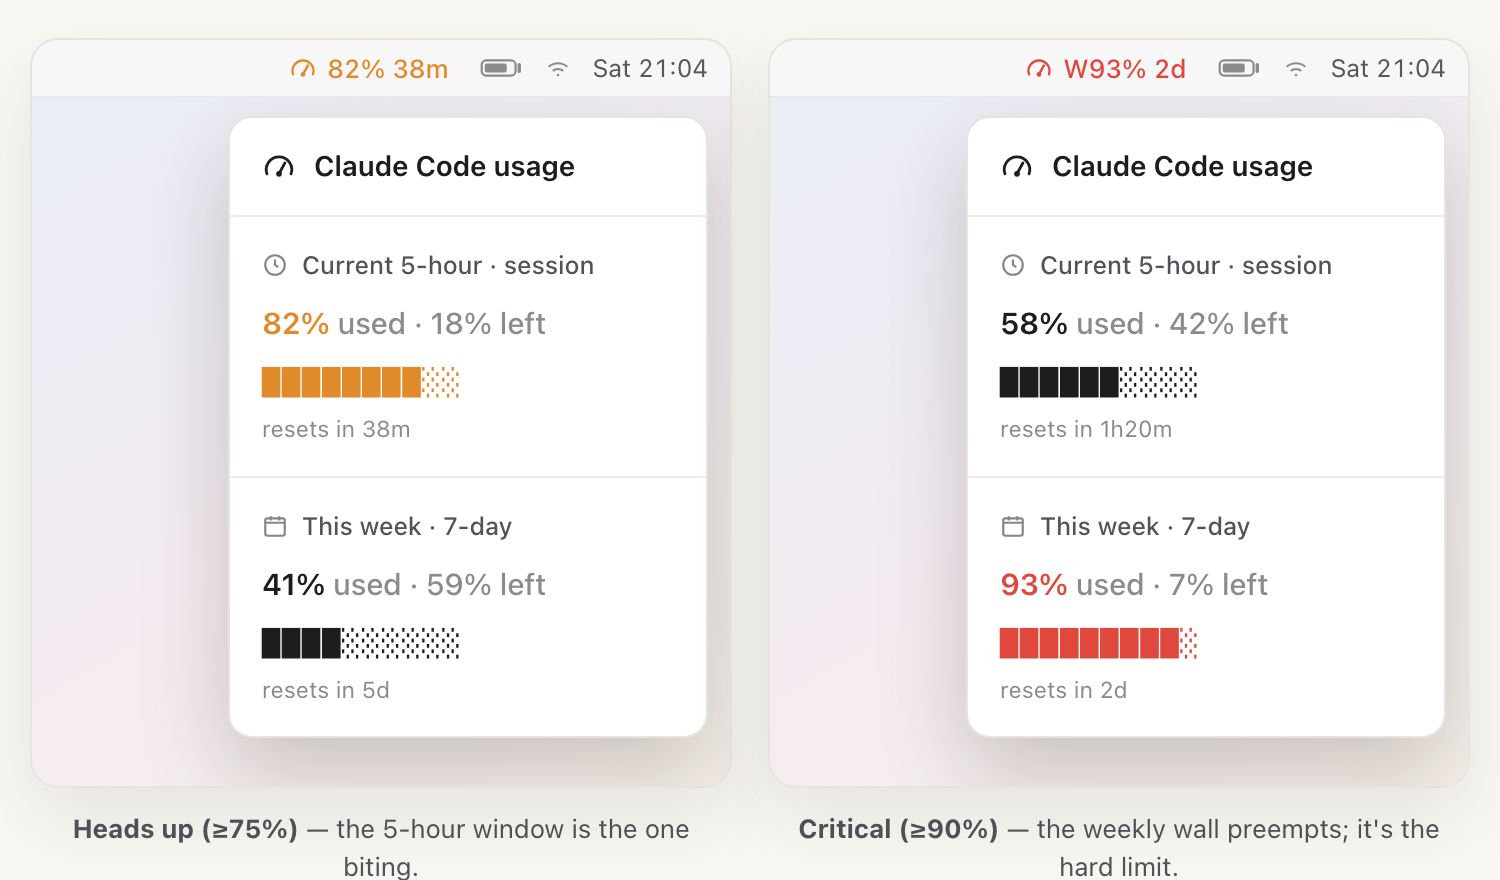
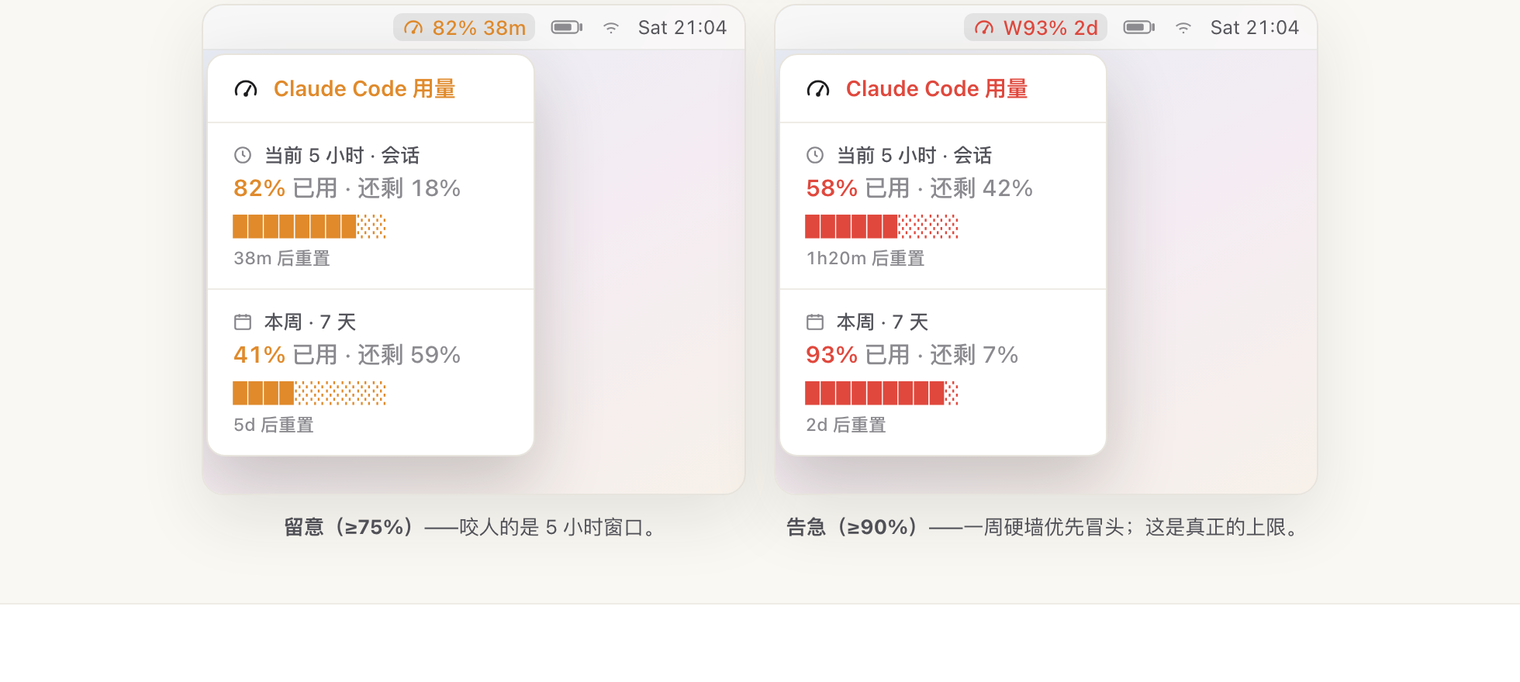
site: mock the selected menu-bar state + gauge-anchored dropdown in the amber/red scenes
The warning/critical state cards now mirror the hero exactly: the gauge
carries the selected (lit) highlight and the dropdown hangs directly under
it (right-aligned), instead of floating at the stage's top-right. Regenerate
docs/screenshots/states.png from the corrected scenes.

(index.html also carries in-progress hero-copy edits from a concurrent session.)

diff --git a/site/index.html b/site/index.html
@@ -82,12 +82,10 @@
 
   /* ---------- hero ---------- */
   .hero{padding:88px 0 40px;text-align:center}
-  .badge{
-    display:inline-flex;align-items:center;gap:8px;font-size:13px;color:var(--ink-soft);
-    background:var(--card);border:1px solid var(--line);border-radius:999px;
-    padding:6px 14px;margin-bottom:26px;font-weight:500;
-  }
-  .badge .dot{width:7px;height:7px;border-radius:50%;background:var(--ok);box-shadow:0 0 0 4px rgba(58,143,99,.12)}
+  .hero-checks{display:flex;flex-wrap:wrap;gap:9px 18px;justify-content:center;align-items:center;margin:0 auto 18px;max-width:640px}
+  .hero-checks span{display:inline-flex;align-items:center;gap:6px;font-size:15px;font-weight:550;color:var(--ink-soft)}
+  .hero-checks svg{width:17px;height:17px;flex:none}
+  .hero-kicker{font-size:14.5px;color:var(--ink-faint);margin:0 auto 30px}
   h1{
     font-size:clamp(38px,6.4vw,68px);line-height:1.02;letter-spacing:-.035em;
     font-weight:700;margin:0 0 20px;
@@ -97,7 +95,7 @@
     -webkit-background-clip:text;background-clip:text;color:transparent;
   }
   .sub{
-    font-size:clamp(17px,2.2vw,21px);color:var(--ink-soft);max-width:660px;margin:0 auto 34px;
+    font-size:clamp(17px,2.2vw,21px);color:var(--ink-soft);max-width:660px;margin:0 auto 16px;
     line-height:1.55;
   }
   .hero-cta{display:flex;gap:14px;justify-content:center;flex-wrap:wrap;margin-bottom:14px}
@@ -110,7 +108,6 @@
   .btn-primary:hover{transform:translateY(-2px);box-shadow:0 10px 30px rgba(0,0,0,.22)}
   .btn-ghost{background:var(--card);color:var(--ink);border-color:var(--line)}
   .btn-ghost:hover{transform:translateY(-2px);border-color:#d8d4cb}
-  .hero-note{font-size:13px;color:var(--ink-faint)}
 
   /* ---------- mock menu bar demo ---------- */
   .demo{position:relative;margin:56px auto 0;max-width:720px;border:1px solid var(--line);
@@ -181,10 +178,11 @@
   .mini-bar .sysicon{opacity:.55}
   .mini-bar .clock{opacity:.82;font-variant-numeric:tabular-nums}
   .mini-bar .mbg{padding:2px 6px}
-  .mini-stage{position:relative;height:344px}
-  @media(max-width:680px){.mini-stage{height:auto;padding-bottom:12px}}
-  .mini-stage .dropdown{position:absolute;top:9px;right:11px;width:240px;box-shadow:0 18px 44px rgba(40,36,28,.22)}
-  @media(max-width:680px){.mini-stage .dropdown{position:static;width:auto;margin:10px 11px 0;box-shadow:0 12px 30px rgba(40,36,28,.12)}}
+  .mini-stage{height:286px}
+  @media(max-width:680px){.mini-stage{height:264px}}
+  /* state-scene dropdown hangs from the (selected) gauge, exactly like the hero */
+  .mini-bar .popover .dropdown{width:212px;box-shadow:0 18px 44px rgba(40,36,28,.22)}
+  @media(max-width:680px){.mini-bar .popover{position:absolute}.mini-bar .popover .dropdown{width:min(212px,76vw)}}
   .dd-used.warn{color:var(--warn)}.dd-used.crit{color:var(--crit)}
   .scene-cap{margin:11px 2px 0;font-size:13px;color:var(--ink-soft);line-height:1.45;text-align:center}
   .leg .txt b{color:var(--ink);font-weight:600}
@@ -200,7 +198,7 @@
   @media(max-width:880px){.feat-grid{grid-template-columns:repeat(2,1fr)}}
   @media(max-width:560px){.feat-grid{grid-template-columns:1fr}}
   .feat{
-    background:var(--card);border:1px solid var(--line);border-radius:var(--radius);
+    background:var(--paper);border:1px solid var(--line);border-radius:var(--radius);
     padding:26px 24px;transition:transform .18s,box-shadow .18s,border-color .18s;
   }
   .feat:hover{transform:translateY(-3px);box-shadow:0 14px 36px rgba(40,36,28,.08);border-color:#ded9cf}
@@ -260,8 +258,9 @@
   .layer p code{font-family:var(--mono);font-size:12px;background:#f3f0e9;padding:1px 5px;border-radius:5px;color:var(--ink)}
   .opt-badge{font-size:10.5px;font-weight:700;letter-spacing:.04em;text-transform:uppercase;color:var(--ok);background:rgba(58,143,99,.1);padding:2px 7px;border-radius:5px;margin-left:6px}
 
+  /* ---------- white band (alternating section bg) ---------- */
+  .band{background:#fff;border-top:1px solid var(--line-soft);border-bottom:1px solid var(--line-soft)}
   /* ---------- privacy ---------- */
-  .privacy{background:#fff;border-top:1px solid var(--line-soft);border-bottom:1px solid var(--line-soft)}
   .priv-grid{display:grid;grid-template-columns:repeat(2,1fr);gap:16px;max-width:840px;margin:0 auto}
   @media(max-width:640px){.priv-grid{grid-template-columns:1fr}}
   .priv{display:flex;gap:14px;align-items:flex-start;padding:20px 22px;border:1px solid var(--line);border-radius:14px;background:var(--paper)}
@@ -304,6 +303,10 @@
     <path d="M12 17.5 16.2 9.8" fill="none" stroke="currentColor" stroke-width="2" stroke-linecap="round"/>
     <circle cx="12" cy="17.5" r="2" fill="currentColor"/>
   </symbol>
+  <symbol id="chk" viewBox="0 0 24 24">
+    <circle cx="12" cy="12" r="10" fill="#e7f1ec"/>
+    <path d="m7.8 12.3 2.7 2.7L16.2 9.2" fill="none" stroke="#3a8f63" stroke-width="2.2" stroke-linecap="round" stroke-linejoin="round"/>
+  </symbol>
 </svg>
 
 <nav>
@@ -324,12 +327,17 @@
 <!-- ============ HERO ============ -->
 <header class="hero">
   <div class="wrap">
-    <span class="badge"><span class="dot"></span> <span class="en">macOS menu bar · Claude Code Pro / Max</span><span class="zh">macOS 菜单栏 · Claude Code Pro / Max</span></span>
     <h1><span class="en">Your Claude Code usage,<br><span class="grad">live in the menu bar.</span></span><span class="zh">你的 Claude Code 用量，<br><span class="grad">常驻菜单栏。</span></span></h1>
     <p class="sub">
-      <span class="en">A tiny macOS gauge that shows how much of your Claude Code quota you've used —
-      reading only the official numbers, never a line of your conversations or code. Free, open source, zero quota cost.</span><span class="zh">一个小巧的 macOS 表盘，瞄一眼就知道 Claude Code 额度用了多少——只读官方用量数字，绝不读你的对话和代码一个字。免费、开源、零额度消耗。</span>
+      <span class="en">A tiny macOS gauge — one glance tells you how much of your Claude Code quota you've used.</span><span class="zh">一个小巧的 macOS 表盘，瞄一眼就知道 Claude Code 额度用了多少。</span>
     </p>
+    <div class="hero-checks">
+      <span><svg><use href="#chk"/></svg> <span class="en">Tiny</span><span class="zh">小巧</span></span>
+      <span><svg><use href="#chk"/></svg> <span class="en">Private</span><span class="zh">安全</span></span>
+      <span><svg><use href="#chk"/></svg> <span class="en">Zero quota cost</span><span class="zh">零额度消耗</span></span>
+      <span><svg><use href="#chk"/></svg> <span class="en">Free &amp; open source</span><span class="zh">免费开源</span></span>
+    </div>
+    <p class="hero-kicker"><span class="en">In short — it's just a very simple little tool.</span><span class="zh">总之，它只是一个非常简单的小工具。</span></p>
     <div class="hero-cta">
       <a class="btn btn-primary" href="#install">
         <svg width="16" height="16"><use href="#dial"/></svg> <span class="en">Get started</span><span class="zh">开始使用</span>
@@ -339,8 +347,6 @@
         <span class="en">View on GitHub</span><span class="zh">在 GitHub 上查看</span>
       </a>
     </div>
-    <p class="hero-note"><span class="en">MIT open source · most usage trackers read your chat logs to count usage — this one never touches them</span><span class="zh">MIT 开源 · 多数用量工具靠翻你的对话记录算用量——它一个字都不碰</span></p>
-
     <!-- mock window -->
     <div class="demo">
       <div class="macbar">
@@ -384,28 +390,30 @@
         <div>
           <div class="scene">
             <div class="mini-bar">
-              <span class="mbg warn"><svg class="dial"><use href="#dial"/></svg> 82% 38m</span>
+              <span class="mbg warn lit"><svg class="dial"><use href="#dial"/></svg> 82% 38m
+                <div class="popover">
+                  <div class="dropdown">
+                    <div class="dd-head"><svg class="dial"><use href="#dial"/></svg> <span class="en">Claude Code usage</span><span class="zh">Claude Code 用量</span></div>
+                    <div class="dd-row">
+                      <div class="dd-label"><svg viewBox="0 0 24 24" fill="none" stroke="currentColor" stroke-width="2"><circle cx="12" cy="12" r="9"/><path d="M12 7v5l3 2"/></svg> <span class="en">Current 5-hour · session</span><span class="zh">当前 5 小时 · 会话</span></div>
+                      <div class="dd-used warn">82%<span class="muted"><span class="en"> used&nbsp;·&nbsp;18% left</span><span class="zh"> 已用&nbsp;·&nbsp;还剩 18%</span></span></div>
+                      <div class="gaugebar warn">████████░░</div>
+                      <div class="dd-reset"><span class="en">resets in 38m</span><span class="zh">38m 后重置</span></div>
+                    </div>
+                    <div class="dd-row">
+                      <div class="dd-label"><svg viewBox="0 0 24 24" fill="none" stroke="currentColor" stroke-width="2"><rect x="3" y="5" width="18" height="16" rx="2"/><path d="M3 9h18M8 3v4M16 3v4"/></svg> <span class="en">This week · 7-day</span><span class="zh">本周 · 7 天</span></div>
+                      <div class="dd-used">41%<span class="muted"><span class="en"> used&nbsp;·&nbsp;59% left</span><span class="zh"> 已用&nbsp;·&nbsp;还剩 59%</span></span></div>
+                      <div class="gaugebar">████░░░░░░</div>
+                      <div class="dd-reset"><span class="en">resets in 5d</span><span class="zh">5d 后重置</span></div>
+                    </div>
+                  </div>
+                </div>
+              </span>
               <svg class="sysicon" width="22" height="13" viewBox="0 0 26 14" fill="none"><rect x="1" y="2.5" width="20" height="9" rx="2.6" stroke="currentColor" stroke-width="1.3"/><rect x="2.8" y="4.3" width="13" height="5.4" rx="1.2" fill="currentColor"/><path d="M23.2 5v4" stroke="currentColor" stroke-width="2" stroke-linecap="round"/></svg>
               <svg class="sysicon" width="14" height="14" viewBox="0 0 24 24" fill="none" stroke="currentColor" stroke-width="1.8"><path d="M4 11a12 12 0 0 1 16 0M7.5 14.5a7 7 0 0 1 9 0"/><circle cx="12" cy="18" r="1.1" fill="currentColor" stroke="none"/></svg>
               <span class="clock">Sat 21:04</span>
             </div>
-            <div class="mini-stage">
-              <div class="dropdown">
-                <div class="dd-head"><svg class="dial"><use href="#dial"/></svg> <span class="en">Claude Code usage</span><span class="zh">Claude Code 用量</span></div>
-                <div class="dd-row">
-                  <div class="dd-label"><svg viewBox="0 0 24 24" fill="none" stroke="currentColor" stroke-width="2"><circle cx="12" cy="12" r="9"/><path d="M12 7v5l3 2"/></svg> <span class="en">Current 5-hour · session</span><span class="zh">当前 5 小时 · 会话</span></div>
-                  <div class="dd-used warn">82%<span class="muted"><span class="en"> used&nbsp;·&nbsp;18% left</span><span class="zh"> 已用&nbsp;·&nbsp;还剩 18%</span></span></div>
-                  <div class="gaugebar warn">████████░░</div>
-                  <div class="dd-reset"><span class="en">resets in 38m</span><span class="zh">38m 后重置</span></div>
-                </div>
-                <div class="dd-row">
-                  <div class="dd-label"><svg viewBox="0 0 24 24" fill="none" stroke="currentColor" stroke-width="2"><rect x="3" y="5" width="18" height="16" rx="2"/><path d="M3 9h18M8 3v4M16 3v4"/></svg> <span class="en">This week · 7-day</span><span class="zh">本周 · 7 天</span></div>
-                  <div class="dd-used">41%<span class="muted"><span class="en"> used&nbsp;·&nbsp;59% left</span><span class="zh"> 已用&nbsp;·&nbsp;还剩 59%</span></span></div>
-                  <div class="gaugebar">████░░░░░░</div>
-                  <div class="dd-reset"><span class="en">resets in 5d</span><span class="zh">5d 后重置</span></div>
-                </div>
-              </div>
-            </div>
+            <div class="mini-stage"></div>
           </div>
           <p class="scene-cap"><span class="en"><b>Heads up (≥75%)</b> — the 5-hour window is the one biting.</span><span class="zh"><b>留意（≥75%）</b>——咬人的是 5 小时窗口。</span></p>
         </div>
@@ -413,28 +421,30 @@
         <div>
           <div class="scene">
             <div class="mini-bar">
-              <span class="mbg crit"><svg class="dial"><use href="#dial"/></svg> W93% 2d</span>
+              <span class="mbg crit lit"><svg class="dial"><use href="#dial"/></svg> W93% 2d
+                <div class="popover">
+                  <div class="dropdown">
+                    <div class="dd-head"><svg class="dial"><use href="#dial"/></svg> <span class="en">Claude Code usage</span><span class="zh">Claude Code 用量</span></div>
+                    <div class="dd-row">
+                      <div class="dd-label"><svg viewBox="0 0 24 24" fill="none" stroke="currentColor" stroke-width="2"><circle cx="12" cy="12" r="9"/><path d="M12 7v5l3 2"/></svg> <span class="en">Current 5-hour · session</span><span class="zh">当前 5 小时 · 会话</span></div>
+                      <div class="dd-used">58%<span class="muted"><span class="en"> used&nbsp;·&nbsp;42% left</span><span class="zh"> 已用&nbsp;·&nbsp;还剩 42%</span></span></div>
+                      <div class="gaugebar">██████░░░░</div>
+                      <div class="dd-reset"><span class="en">resets in 1h20m</span><span class="zh">1h20m 后重置</span></div>
+                    </div>
+                    <div class="dd-row">
+                      <div class="dd-label"><svg viewBox="0 0 24 24" fill="none" stroke="currentColor" stroke-width="2"><rect x="3" y="5" width="18" height="16" rx="2"/><path d="M3 9h18M8 3v4M16 3v4"/></svg> <span class="en">This week · 7-day</span><span class="zh">本周 · 7 天</span></div>
+                      <div class="dd-used crit">93%<span class="muted"><span class="en"> used&nbsp;·&nbsp;7% left</span><span class="zh"> 已用&nbsp;·&nbsp;还剩 7%</span></span></div>
+                      <div class="gaugebar crit">█████████░</div>
+                      <div class="dd-reset"><span class="en">resets in 2d</span><span class="zh">2d 后重置</span></div>
+                    </div>
+                  </div>
+                </div>
+              </span>
               <svg class="sysicon" width="22" height="13" viewBox="0 0 26 14" fill="none"><rect x="1" y="2.5" width="20" height="9" rx="2.6" stroke="currentColor" stroke-width="1.3"/><rect x="2.8" y="4.3" width="13" height="5.4" rx="1.2" fill="currentColor"/><path d="M23.2 5v4" stroke="currentColor" stroke-width="2" stroke-linecap="round"/></svg>
               <svg class="sysicon" width="14" height="14" viewBox="0 0 24 24" fill="none" stroke="currentColor" stroke-width="1.8"><path d="M4 11a12 12 0 0 1 16 0M7.5 14.5a7 7 0 0 1 9 0"/><circle cx="12" cy="18" r="1.1" fill="currentColor" stroke="none"/></svg>
               <span class="clock">Sat 21:04</span>
             </div>
-            <div class="mini-stage">
-              <div class="dropdown">
-                <div class="dd-head"><svg class="dial"><use href="#dial"/></svg> <span class="en">Claude Code usage</span><span class="zh">Claude Code 用量</span></div>
-                <div class="dd-row">
-                  <div class="dd-label"><svg viewBox="0 0 24 24" fill="none" stroke="currentColor" stroke-width="2"><circle cx="12" cy="12" r="9"/><path d="M12 7v5l3 2"/></svg> <span class="en">Current 5-hour · session</span><span class="zh">当前 5 小时 · 会话</span></div>
-                  <div class="dd-used">58%<span class="muted"><span class="en"> used&nbsp;·&nbsp;42% left</span><span class="zh"> 已用&nbsp;·&nbsp;还剩 42%</span></span></div>
-                  <div class="gaugebar">██████░░░░</div>
-                  <div class="dd-reset"><span class="en">resets in 1h20m</span><span class="zh">1h20m 后重置</span></div>
-                </div>
-                <div class="dd-row">
-                  <div class="dd-label"><svg viewBox="0 0 24 24" fill="none" stroke="currentColor" stroke-width="2"><rect x="3" y="5" width="18" height="16" rx="2"/><path d="M3 9h18M8 3v4M16 3v4"/></svg> <span class="en">This week · 7-day</span><span class="zh">本周 · 7 天</span></div>
-                  <div class="dd-used crit">93%<span class="muted"><span class="en"> used&nbsp;·&nbsp;7% left</span><span class="zh"> 已用&nbsp;·&nbsp;还剩 7%</span></span></div>
-                  <div class="gaugebar crit">█████████░</div>
-                  <div class="dd-reset"><span class="en">resets in 2d</span><span class="zh">2d 后重置</span></div>
-                </div>
-              </div>
-            </div>
+            <div class="mini-stage"></div>
           </div>
           <p class="scene-cap"><span class="en"><b>Critical (≥90%)</b> — the weekly wall preempts; it's the hard limit.</span><span class="zh"><b>告急（≥90%）</b>——一周硬墙优先冒头；这是真正的上限。</span></p>
         </div>
@@ -445,12 +455,12 @@
 </header>
 
 <!-- ============ PRIVACY ============ -->
-<section id="privacy" class="privacy">
+<section id="privacy" class="band">
   <div class="wrap">
     <div class="sec-head">
       <span class="eyebrow"><span class="en">What it can and can't see</span><span class="zh">它能看到什么，看不到什么</span></span>
-      <h2><span class="en">Built to be auditable</span><span class="zh">天生可审计</span></h2>
-      <p><span class="en">It's all readable bash and Python — nothing obfuscated, nothing hidden.</span><span class="zh">全是能读懂的 bash 和 Python——没有混淆，没有藏私。</span></p>
+      <h2><span class="en">Private by design</span><span class="zh">绝对隐私安全</span></h2>
+      <p><span class="en">Most usage trackers tally your usage by reading your conversation logs — this one never reads a single word.</span><span class="zh">多数用量工具靠翻你的对话记录算用量——我一个字都不碰。</span></p>
     </div>
     <div class="priv-grid">
 
@@ -491,7 +501,7 @@
 </section>
 
 <!-- ============ INSTALL ============ -->
-<section id="install" style="background:#fff;border-top:1px solid var(--line-soft);border-bottom:1px solid var(--line-soft)">
+<section id="install">
   <div class="wrap">
     <div class="sec-head">
       <span class="eyebrow"><span class="en">Get it running</span><span class="zh">让它跑起来</span></span>
@@ -528,6 +538,38 @@
   </div>
 </section>
 
+<!-- ============ FEATURES ============ -->
+<section id="features" class="band">
+  <div class="wrap">
+    <div class="sec-head">
+      <span class="eyebrow"><span class="en">Why it's different</span><span class="zh">它有何不同</span></span>
+      <h2><span class="en">Small, honest, and out of your way</span><span class="zh">小巧、诚实、不挡道</span></h2>
+      <p><span class="en">It only speaks up when it matters — and when it does, it tells the truth.</span><span class="zh">只在要紧时出声——出声时，说的都是实话。</span></p>
+    </div>
+    <div class="feat-grid">
+
+      <div class="feat">
+        <span class="ico"><svg viewBox="0 0 24 24" fill="none" stroke="currentColor" stroke-width="2"><path d="M3.5 17.5a9 9 0 1 1 17 0"/><path d="M12 17.5 16.2 9.8"/><circle cx="12" cy="17.5" r="1.8" fill="currentColor"/></svg></span>
+        <h3><span class="en">Glance and go</span><span class="zh">一眼就懂</span></h3>
+        <p><span class="en">When you have room it's just a quiet number. As your quota runs low it turns amber, then red, with a reset countdown — tucked in the corner of your menu bar, notch-friendly and always out of your way.</span><span class="zh">宽裕时它只是一个安静的数字；额度吃紧，它自己变橙、变红，带上重置倒计时。安静待在菜单栏角落，刘海友好，从不挡你的道。</span></p>
+      </div>
+
+      <div class="feat">
+        <span class="ico"><svg viewBox="0 0 24 24" fill="none" stroke="currentColor" stroke-width="2"><path d="M12 3 4 6v5c0 5 3.5 8 8 10 4.5-2 8-5 8-10V6Z"/><path d="m9 12 2 2 4-4"/></svg></span>
+        <h3><span class="en">Never lies to you</span><span class="zh">绝不骗你</span></h3>
+        <p><span class="en">If the numbers go stale it honestly fades to gray — never old data dressed up as live. It either tells you the truth or admits it's out of date.</span><span class="zh">数据过期就老实变灰，绝不拿旧数字伪装成实时。要么给你真话，要么明说自己旧了。</span></p>
+      </div>
+
+      <div class="feat">
+        <span class="ico"><svg viewBox="0 0 24 24" fill="none" stroke="currentColor" stroke-width="2"><path d="M21 12a9 9 0 1 1-3-6.7"/><path d="M21 3v6h-6"/><path d="M12 8v4l2.5 1.5"/></svg></span>
+        <h3><span class="en">Costs you nothing</span><span class="zh">零额度消耗</span></h3>
+        <p><span class="en">It refreshes quietly in the background and never spends a token of your subscription — and keeps working even when you've stepped away from your desk.</span><span class="zh">后台静默刷新，永不花掉你订阅里的一个 token；你离开座位，它也照常工作。</span></p>
+      </div>
+
+    </div>
+  </div>
+</section>
+
 <!-- ============ HOW IT WORKS ============ -->
 <section id="how">
   <div class="wrap">
@@ -557,44 +599,6 @@
         <h3><span class="en">The statusLine</span><span class="zh">statusLine 桥接</span></h3>
         <span class="tag">bridge/claude-gauge-statusline.py</span>
         <p><span class="en">Wired as Claude Code's <code>statusLine</code> command, it reads the rate limits CC already hands its status bar and writes <code>live.json</code> — so the menu bar updates instantly while you work, with no API call and no token needed. Applies to new sessions started after you configure it.</span><span class="zh">作为 Claude Code 的 <code>statusLine</code> 命令接入，它读取 CC 已经喂给自己状态栏的限额，写入 <code>live.json</code>——这样你干活时菜单栏即时更新，无需任何 API 请求，也不用 token。只对配置之后新开的会话生效。</span></p>
-      </div>
-
-    </div>
-  </div>
-</section>
-
-<!-- ============ FEATURES ============ -->
-<section id="features">
-  <div class="wrap">
-    <div class="sec-head">
-      <span class="eyebrow"><span class="en">Why it's different</span><span class="zh">它有何不同</span></span>
-      <h2><span class="en">Small, honest, and out of your way</span><span class="zh">小巧、诚实、不挡道</span></h2>
-      <p><span class="en">It only speaks up when it matters — and when it does, it tells the truth.</span><span class="zh">只在要紧时出声——出声时，说的都是实话。</span></p>
-    </div>
-    <div class="feat-grid">
-
-      <div class="feat">
-        <span class="ico"><svg viewBox="0 0 24 24" fill="none" stroke="currentColor" stroke-width="2"><path d="M3.5 17.5a9 9 0 1 1 17 0"/><path d="M12 17.5 16.2 9.8"/><circle cx="12" cy="17.5" r="1.8" fill="currentColor"/></svg></span>
-        <h3><span class="en">Status-aware minimalism</span><span class="zh">随状态变色的极简主义</span></h3>
-        <p><span class="en">When you have headroom it's silent — just the current 5-hour percentage, auto black/white to match your menu bar. Cross a threshold and it surfaces the window that's actually biting, with a color and a reset countdown.</span><span class="zh">宽裕时它安静无声——只显示当前 5 小时窗口的百分比，自动黑白配色匹配你的菜单栏。跨过阈值，它就把真正告急的那个窗口冒出来，带上颜色和重置倒计时。</span></p>
-      </div>
-
-      <div class="feat">
-        <span class="ico"><svg viewBox="0 0 24 24" fill="none" stroke="currentColor" stroke-width="2"><path d="M21 12a9 9 0 1 1-3-6.7"/><path d="M21 3v6h-6"/><path d="M12 8v4l2.5 1.5"/></svg></span>
-        <h3><span class="en">Self-healing — at zero cost</span><span class="zh">零成本自愈</span></h3>
-        <p><span class="en">Claude Code lets its keychain token expire while idle, so the usage API starts returning <code>401</code>. ClaudeGauge renews it the way Claude Code itself does — a direct OAuth refresh that costs nothing against your quota: no prompt, no inference, just an auth call. The gauge keeps working when you've stepped away, and never spends a token of your subscription.</span><span class="zh">Claude Code 闲置时会让钥匙串里的 token 过期，于是用量 API 开始返回 <code>401</code>。ClaudeGauge 用和 Claude Code 自己一样的方式给它续命——一次直接的 OAuth 刷新，不计入你的任何额度：不发提示、不做推理，只是一次鉴权调用。你离开座位时表盘照样工作，且绝不花掉你订阅里的一个 token。</span></p>
-      </div>
-
-      <div class="feat">
-        <span class="ico"><svg viewBox="0 0 24 24" fill="none" stroke="currentColor" stroke-width="2"><path d="M10.3 3.1a2 2 0 0 1 3.4 0l8 13.9a2 2 0 0 1-1.7 3H3.9a2 2 0 0 1-1.7-3Z"/><path d="M12 9v4M12 17h.01"/></svg></span>
-        <h3><span class="en">Honestly stale</span><span class="zh">过期就老实说</span></h3>
-        <p><span class="en">If data is more than 15 minutes old, the title goes gray and grows a <code>~</code>, and the dropdown warns you. No tool lies to you with old numbers dressed up as live — ever.</span><span class="zh">数据超过 15 分钟没刷新，标题就变灰、长出一个 <code>~</code>，下拉里也会提醒你。绝不拿过期数字伪装成实时来糊弄你——永远不会。</span></p>
-      </div>
-
-      <div class="feat">
-        <span class="ico"><svg viewBox="0 0 24 24" fill="none" stroke="currentColor" stroke-width="2"><rect x="3" y="4" width="18" height="14" rx="2"/><path d="M9 4v3a3 3 0 0 0 6 0V4"/></svg></span>
-        <h3><span class="en">Notch-friendly</span><span class="zh">刘海友好</span></h3>
-        <p><span class="en">On notched Macs the menu bar title stays under ~90px (about 11 characters). Go wider and the notch swallows your icon whole — so the display is engineered to stay short no matter the state.</span><span class="zh">带刘海的 Mac 上，菜单栏标题始终压在约 90px（约 11 个字符）以内。再宽一点，刘海就会把你的图标整个吞掉——所以无论什么状态，显示都被刻意控制得够短。</span></p>
       </div>
 
     </div>